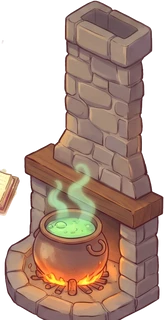
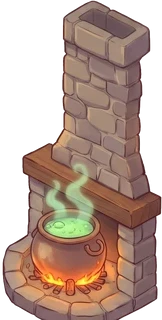
Build 424: Potions: two stray details removed (her «две лишних детали», IMG_9812): a candle sconce no longer lands on the poster (sconces only on the window wall, between windows) and the wooden sliver beside the hearth is gone (a fragment left in the hearth picture; re-cut to its main part). Checke

diff --git a/js/game.js b/js/game.js
@@ -2,12 +2,12 @@
 import {
   OFFLINE_CAP_SEC, MAX_DESKS, MAX_ITEM_LEVEL, MAX_TEACHER_LEVEL, MAX_TIME_LEVEL,
   CLASSES, SPECIES, NAMES, MISSIONS, WORLDS, WORLD, META,
-} from './data.js?v=423';
-import { EMOJI_RE, emojiImage, preloadEmoji, watchEmoji, emojiHtml } from './emoji.js?v=423';
-import { initMinigame } from './minigame.js?v=423';
-import { initChests } from './chests.js?v=423';
-import { initLore } from './lore.js?v=423';
-import { initAvatar } from './avatar.js?v=423';
+} from './data.js?v=424';
+import { EMOJI_RE, emojiImage, preloadEmoji, watchEmoji, emojiHtml } from './emoji.js?v=424';
+import { initMinigame } from './minigame.js?v=424';
+import { initChests } from './chests.js?v=424';
+import { initLore } from './lore.js?v=424';
+import { initAvatar } from './avatar.js?v=424';
 // mini-game «Зельеварка» (match-3, js/minigame.js): a pill on the main screen, its own overlay; the school keeps living under it
 const MG = initMinigame({ state: () => S, earn: (n) => earn(n), save: () => save(), toast: (t) => toast(t), fmt: (n) => fmt(n), emojiHtml, emojiImage,
   audioOut: () => { if (!sfxOn() || document.hidden) return null; const c = audio(); return c && c.state === 'running' ? { c, out: AOUT } : null; },
@@ -30,7 +30,7 @@ const LORE = initLore({ state: () => S, save: () => save(), emojiHtml, on: () =>
 const SAVE_KEY = WORLD === 1 ? 'magicschool.save.v2' : 'magicschool.save.v2.w' + WORLD;   // every world keeps its own save
 const saveKeyOf = (w) => (w === 1 ? 'magicschool.save.v2' : 'magicschool.save.v2.w' + w);
 const VERSION = '0.9';
-const BUILD = 423;   // keep equal to the ?v= number in index.html
+const BUILD = 424;   // keep equal to the ?v= number in index.html
 const $ = (s, r = document) => r.querySelector(s);
 const rnd = (a) => a[Math.floor(Math.random() * a.length)];
 
@@ -3412,7 +3412,7 @@ function drawWallDecor(c, id) {
 // furniture of a themed class: corners at the back, a bookcase by the left wall, small things in the free strip in front
 // ---- redesigned rooms: built-in, staged furnishing items (stage 0 = not bought, 1 = lvl 1-9, 2 = 10-24, 3 = 25-39, 4 = 40)
 const ITEM_IMS = {};
-function itemIm(n) { let im = ITEM_IMS[n]; if (!im) { im = ITEM_IMS[n] = new Image(); im.src = `assets/parts/items/${n}.webp?v=2`; } return im.complete && im.naturalWidth ? im : null; }
+function itemIm(n) { let im = ITEM_IMS[n]; if (!im) { im = ITEM_IMS[n] = new Image(); im.src = `assets/parts/items/${n}.webp?v=${n === 'pot_hearth' ? 3 : 2}`; } return im.complete && im.naturalWidth ? im : null; }
 const stageOf = (lv) => (!lv ? 0 : lv < 10 ? 1 : lv < 25 ? 2 : lv < 40 ? 3 : 4);
 function itemDraw(n, x, y, h, o = {}) {   // a sprite standing on tile (x, y): bottom-centre on the floor point, lift = px above the floor
   const im = itemIm(n); if (!im) return null; const p = P(x, y), w = h * im.naturalWidth / im.naturalHeight, top = p.y + (o.down || 0) - (o.lift || 0) - h;
@@ -3440,7 +3440,7 @@ const ROOM_ART = {
       if (dnDark) frameLamps.push({ pot: 1, x: r.x, y: r.top + h * 0.8, r: 8, liq: '150,240,170', ly: r.top + h * 0.6 }); }); }
     // candles -> iron sconces on the walls, more with each stage
     const sc = stageOf(lv('candles')); if (sc) { const wins = (sd) => [...HERBS_WINS.values()].filter((wv) => wv.s0 === me && wv.side === sd).map((wv) => wv.tm).sort((a, b) => a - b), gaps = (sd, a, b) => { const ws = wins(sd), out = []; let prev = a; for (const t of [...ws, b]) { if (t - prev > 1.7) out.push((prev + t) / 2); prev = t; } return out; };   // sconces only in the wall gaps between windows (her rule: nothing over a window)
-const gx = gaps('x0', s.y0 + 0.3, wallEnd), gy = gaps('y0', s.x0 + 0.3, (s.x0 + s.x1) / 2 - 1.5), all = []; for (let m = 0; m < Math.max(gx.length, gy.length); m++) { if (gx[m] != null) all.push(['x0', gx[m]]); if (gy[m] != null) all.push(['y0', gy[m]]); } const spots = all.slice(0, [0, 2, 3, 4, 5][sc]);
+const gx = gaps('x0', s.y0 + 0.3, wallEnd), gy = [], all = []; for (let m = 0; m < Math.max(gx.length, gy.length); m++) { if (gx[m] != null) all.push(['x0', gx[m]]); if (gy[m] != null) all.push(['y0', gy[m]]); } const spots = all.slice(0, [0, 2, 3, 4, 5][sc]);
       for (const [sd, t] of spots) add(sd === 'x0' ? s.x0 + 0.1 : t, sd === 'x0' ? t : s.y0 + 0.1, () => { const im = itemIm('pot_sconce'); if (!im) return; const b = up(sd === 'x0' ? P(s.x0, t) : P(t, s.y0), TALL_H() * 0.5), h = 24, w = h * im.naturalWidth / im.naturalHeight;
         ctx.save(); ctx.translate(b.x, b.y); if (sd === 'y0') ctx.scale(-1, 1); ctx.drawImage(im, -w / 2, -h, w, h); ctx.restore();
         const f = 0.85 + 0.15 * Math.sin(T * 7 + t * 3); ctx.save(); ctx.globalCompositeOperation = 'lighter'; ctx.globalAlpha = (0.25 + (dnDark ? 0.25 : 0)) * f; ctx.drawImage(glowSprite('255,200,120'), b.x - 14 + (sd === 'y0' ? 3 : -3), b.y - h - 8, 28, 28); ctx.restore(); }); }   // each candle glows warm

diff --git a/index.html b/index.html
@@ -12,7 +12,7 @@
 <link rel="manifest" href="manifest.webmanifest">
 <link rel="apple-touch-icon" href="icons/icon-180.png?v=2">
 <link rel="icon" href="icons/icon-192.png?v=2">
-<link rel="stylesheet" href="style.css?v=423">
+<link rel="stylesheet" href="style.css?v=424">
 <script>/* iOS home-screen app: innerHeight / 100% / 100dvh are short by the status bar, a strip stayed at the bottom (her screenshots, builds 200-203); use the real screen height */
 (function(){function fit(){if(!(navigator.standalone||matchMedia('(display-mode: standalone)').matches))return;var h=Math.max(window.innerHeight,(Math.abs(window.orientation||0)===90?screen.width:screen.height));var r=document.documentElement;r.style.height=h+'px';if(document.body){document.body.style.height=h+'px';document.body.style.bottom='auto';}}fit();addEventListener('DOMContentLoaded',fit);addEventListener('resize',fit);addEventListener('orientationchange',function(){setTimeout(fit,300);});})();</script>
 </head>
@@ -72,6 +72,6 @@ setTimeout(function(){ if (window.__booted) return; var d=document.createElement
   d.querySelector('button').onclick=function(){ location.reload(); }; document.body.appendChild(d); }, 12000);
 if(!CanvasRenderingContext2D.prototype.roundRect){CanvasRenderingContext2D.prototype.roundRect=function(x,y,w,h){this.rect(x,y,w,h);};}
 </script>
-<script type="module" src="js/game.js?v=423"></script>
+<script type="module" src="js/game.js?v=424"></script>
 </body>
 </html>

diff --git a/js/emoji.js b/js/emoji.js
@@ -1,6 +1,6 @@
 // One emoji look on every device: emoji characters are replaced by bundled Twemoji pictures
 // (CC-BY 4.0, https://github.com/jdecked/twemoji), both in the page (DOM) and on the canvas.
-import { EMOJI_FILES } from './emoji-set.js?v=423';
+import { EMOJI_FILES } from './emoji-set.js?v=424';
 
 export const EMOJI_RE = /\p{Extended_Pictographic}(?:|\p{Extended_Pictographic}?|[\u{1F3FB}-\u{1F3FF}])*/gu;
 
